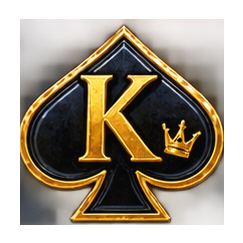
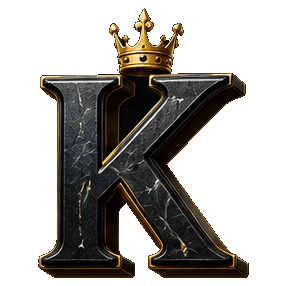
Add files via upload

diff --git a/index.html b/index.html
@@ -49,6 +49,9 @@ a:hover{color:#ffe9a8}
 @keyframes railSweep{0%{transform:translateX(-120%)}100%{transform:translateX(420%)}}
 @keyframes neonBreathe{0%,100%{opacity:.5}50%{opacity:1}}
 @keyframes crownSpin{to{transform:rotate(360deg)}}
+@keyframes sweatFrame{0%,100%{box-shadow:0 0 16px rgba(53,182,255,.5),inset 0 0 20px rgba(53,182,255,.22);border-color:rgba(120,215,255,.7)}50%{box-shadow:0 0 44px rgba(150,228,255,.95),inset 0 0 36px rgba(53,182,255,.5);border-color:#e8f7ff}}
+@keyframes sweatBolt{0%{transform:translateY(-110%);opacity:0}10%{opacity:.95}80%{opacity:.9}100%{transform:translateY(110%);opacity:0}}
+@keyframes sweatFlicker{0%,42%,46%,100%{opacity:.25}44%{opacity:1}70%{opacity:.85}74%{opacity:.3}}
 @keyframes scanDrift{0%{transform:translateY(0)}100%{transform:translateY(6px)}}
 </style>
 </helmet>
@@ -282,11 +285,18 @@ a:hover{color:#ffe9a8}
               <div style="{{ c.cell }}">
                 <div style="{{ c.anim }}">
                   <div style="{{ c.tilt }}">
-                    <sc-for list="{{ c.layers }}" as="l" hint-placeholder-count="1">
+                    <sc-for list="{{ c.layers }}" as="l" hint-placeholder-count="2">
                       <div style="{{ l.s }}">{{ l.t }}</div>
                     </sc-for>
                   </div>
                 </div>
+              </div>
+            </sc-for>
+            <sc-for list="{{ colSweat }}" as="o" hint-placeholder-count="0">
+              <div style="{{ o.frame }}">
+                <div style="{{ o.glow }}"></div>
+                <div style="{{ o.bolt }}"></div>
+                <div style="{{ o.bolt2 }}"></div>
               </div>
             </sc-for>
           </div>
@@ -386,8 +396,8 @@ a:hover{color:#ffe9a8}
             <div style="{{ spinBezel }}"></div>
             <div style="{{ spinRing }}"></div>
             <div style="{{ spinFace }}">
+              <img src="symbols/spinface.png" alt="" style="{{ spinImgStyle }}">
               <div style="{{ spinGloss }}"></div>
-              <div style="{{ spinLabelStyle }}">{{ spinLabel }}</div>
               <div style="{{ spinSubStyle }}">{{ spinSub }}</div>
             </div>
           </div>
@@ -817,11 +827,11 @@ class Component extends DCLogic {
            testo:'sym_testo', tanga:'sym_tanga' };
   TIER = { a:'low', j:'low', q:'low', k:'low', pills:'mid', dumbbell:'mid',
            whey:'mid', peptid:'high', testo:'high', tanga:'high' };
-  COL  = { a:'#3f8fe0', j:'#31c257', q:'#ec2a8c', k:'#f5c542', pills:'#35b6ff',
-           dumbbell:'#ff3b3b', whey:'#ff7a5c', peptid:'#2ea8ff',
-           testo:'#39e05a', tanga:'#ff2ea6' };
+  COL  = { a:'#f5c542', j:'#31c257', q:'#a855f7', k:'#9fb4ce', pills:'#35b6ff',
+           dumbbell:'#c8d4e4', whey:'#c9a2ff', peptid:'#cfe4f5',
+           testo:'#e8eef6', tanga:'#ff2e4d' };
   NAME = { a:'ASS', j:'BUBE', q:'DAME', k:'KÖNIG', pills:'BLUE PILLS',
-           dumbbell:'HANTEL', whey:'WHEY', peptid:'PEPTIDES',
+           dumbbell:'HANTEL', whey:'CASH', peptid:'SPRITZE',
            testo:'TESTO', tanga:'TANGA' };
 
   /* Einmalig beim Eintritt in die Freispiele. */
@@ -1400,9 +1410,10 @@ class Component extends DCLogic {
       if (!this._m) return;
       if (st.type === 'grid'){
         this._seenMults = {};
-        this.setState(s=>({ grid: st.grid.map(c=>Object.assign({}, c, { fresh:true })), tick:s.tick+1 }));
+        const g1 = st.grid.map(c=>Object.assign({}, c, { fresh:true }));
+        this.setState(s=>({ grid:g1, tick:s.tick+1 }));
         this.checkNewMults(st.grid);
-        await this.sleep(this.t(1120));
+        await this.sleep(Math.max(this.t(1120), this.dropPlan(g1).total*1000 + 240));
       } else if (st.type === 'clusters'){
         const hit = {};
         st.clusters.forEach(c=>c.cells.forEach(i=>{ hit[i]=1; }));
@@ -1415,7 +1426,7 @@ class Component extends DCLogic {
       } else if (st.type === 'cascade'){
         this.setState(s=>({ grid:st.grid, tick:s.tick+1 }));
         this.checkNewMults(st.grid);
-        await this.sleep(this.t(900));
+        await this.sleep(Math.max(this.t(900), this.dropPlan(st.grid).total*1000 + 200));
       } else if (st.type === 'collect'){
         const big = st.values.some(v=>v>=100);
         if (big){ this.setState({ flash:true }); this.hype('x'+Math.max.apply(null, st.values)+' ORB WAS'); await this.sleep(140); this.setState({ flash:false }); }
@@ -1519,6 +1530,24 @@ class Component extends DCLogic {
   }
 
   /* ---------- Symbol-Art aus dem Artwork-Sheet ---------- */
+  /* Fallplan pro Spalte: sobald zwei Scatter gelandet sind, fallen die
+     restlichen Spalten deutlich langsamer ("Sweat") und werden umblitzt. */
+  dropPlan(grid){
+    const cols = 7, rows = 7;
+    if (!grid || grid.length < cols*rows){
+      const d = [], du = []; for (let c = 0; c < cols; c++){ d.push(c*0.1); du.push(1.15); }
+      return { delays:d, durs:du, sweat:[false,false,false,false,false,false,false], total:1.9, hot:false };
+    }
+    const delays = [], durs = [], sweat = [];
+    let end = 0;
+    for (let c = 0; c < cols; c++){
+      const t = c*0.1, dur = 1.15;
+      delays.push(t); durs.push(dur); sweat.push(false);
+      if (t + dur > end) end = t + dur;
+    }
+    return { delays, durs, sweat, total: end + 0.2, hot: false };
+  }
+
   LY(s, t){ return { s, t: t || '' }; }
   /* Style-Objekte pro Symbol nur einmal bauen und wiederverwenden. */
   art(sym, mv){
@@ -1534,7 +1563,7 @@ class Component extends DCLogic {
         this.LY(A({ inset:'2%', borderRadius:'50%', border:'1.3cqw solid rgba(120,215,255,.85)', animation:'scatterRing 1.9s ease-out infinite', willChange:'transform,opacity' })),
         this.LY(A({ inset:'6%', borderRadius:'50%', background:'radial-gradient(circle,rgba(180,235,255,.55),rgba(53,182,255,.22) 46%,transparent 70%)', animation:'scatterHalo 1.7s ease-in-out infinite', willChange:'transform,opacity' })),
         this.LY(A({ inset:'4%', backgroundImage:"url('symbols/scatter.png')", backgroundSize:'contain', backgroundPosition:'center', backgroundRepeat:'no-repeat' })),
-        this.LY(A({ left:'9%', bottom:'-1%', width:'82%', height:'19%', borderRadius:'2.4cqw', background:'linear-gradient(180deg,#7fd4ff,#0d63b5)', border:'0.8cqw solid rgba(255,255,255,.75)', boxShadow:'0 0 12cqw rgba(53,182,255,.85)', display:'grid', placeItems:'center', fontFamily:'Anton, sans-serif', fontSize:'11cqw', color:'#04213c', letterSpacing:'.1em' }), 'SCATTER')
+        this.LY(A({ inset:'4%', backgroundImage:"url('symbols/scatter.png')", backgroundSize:'contain', backgroundPosition:'center', backgroundRepeat:'no-repeat', mixBlendMode:'screen', opacity:.55 }))
       ];
     }
     if (sym === 'mult'){
@@ -1542,9 +1571,13 @@ class Component extends DCLogic {
       return [
         this.LY(A({ inset:'-16%', borderRadius:'50%', background:'conic-gradient(from 0deg,'+(big?'rgba(255,255,255,.5)':'rgba(245,197,66,.38)')+' 0deg 6deg,transparent 6deg 30deg,'+(big?'rgba(255,255,255,.5)':'rgba(245,197,66,.38)')+' 30deg 36deg,transparent 36deg 60deg,'+(big?'rgba(255,255,255,.5)':'rgba(245,197,66,.38)')+' 60deg 66deg,transparent 66deg 90deg)', animation:'spinSlow '+(big?'4s':'10s')+' linear infinite', opacity: mid ? .9 : .45, willChange:'transform' })),
         this.LY(A({ inset:'2%', borderRadius:'50%', border:'1.3cqw solid '+(big?'rgba(255,255,255,.95)':'rgba(245,197,66,.8)'), animation:'orbRing '+(big?'1.1s':'1.9s')+' ease-out infinite' })),
-        this.LY(A({ inset:'0', backgroundImage:"url('symbols/multi.png')", backgroundSize:'cover', backgroundPosition:'center', borderRadius:'12%' })),
-        this.LY(A({ inset:'0', borderRadius:'12%', background:'radial-gradient(circle at 50% 52%,rgba(0,0,0,.72) 22%,rgba(0,0,0,.25) 48%,transparent 66%)' })),
-        this.LY(A({ inset:'0', display:'grid', placeItems:'center', fontFamily:'Anton, sans-serif', fontSize:(mv>=100?'27cqw':'34cqw'), lineHeight:1, color:'#ffe9a8', textShadow:'0 0 5cqw rgba(0,0,0,.95), 0 0.8cqw 0 #6b4a00, 0 -0.4cqw 0 rgba(255,255,255,.55)' }), 'x'+mv)
+        this.LY(A({ inset:'-1%', backgroundImage:"url('symbols/multi.png')", backgroundSize:'contain', backgroundPosition:'center', backgroundRepeat:'no-repeat' })),
+        this.LY(A({ left:'50%', top:'52%', transform:'translate(-50%,-50%)', display:'grid', placeItems:'center',
+          minWidth:(mv>=100?'56cqw':'44cqw'), padding:'1cqw 3cqw', borderRadius:'3cqw',
+          background:'linear-gradient(180deg,rgba(24,14,0,.94),rgba(8,5,0,.96))',
+          border:'1cqw solid rgba(255,233,168,.9)', boxShadow:'0 0 8cqw rgba(0,0,0,.9)',
+          fontFamily:'Anton, sans-serif', fontSize:(mv>=100?'22cqw':'27cqw'), lineHeight:1.05,
+          color:'#ffe9a8', textShadow:'0 0.6cqw 0 #6b4a00' }), 'x'+mv)
       ];
     }
     const img = (this.IMG && this.IMG[sym]) || 'sym_a';
@@ -1586,6 +1619,7 @@ class Component extends DCLogic {
     /* Zellen nur neu bauen, wenn sich das Raster wirklich geaendert hat.
        Chat-Ticks und Zaehler duerfen keine 49 Style-Objekte neu erzeugen. */
     const gridKey = s.grid;
+    const plan = this.dropPlan(s.grid);
     const cells = (this._cellCache && this._cellCache.key === gridKey && this._cellCache.tick === s.tick)
       ? this._cellCache.cells
       : s.grid.map((c, i)=>{
@@ -1595,8 +1629,13 @@ class Component extends DCLogic {
         backfaceVisibility:'hidden', willChange:'transform,opacity' };
       if (c.gone) anim = Object.assign(anim, { animation:'popOut .42s ease-in forwards' });
       else if (c.win) anim = Object.assign(anim, { animation:'winPulse .72s ease-in-out infinite' });
-      else if (c.fresh && c.t === 'mult') anim = Object.assign(anim, { animation:'orbLand .8s cubic-bezier(.2,1.35,.4,1) both' });
-      else if (c.fresh) anim = Object.assign(anim, { animation:parity+' .92s cubic-bezier(.34,.72,.3,1) both', animationDelay:(((6-row)*0.062) + ((i%7)*0.02))+'s' });
+      else if (c.fresh && c.t === 'mult') anim = Object.assign(anim, { animationName:'orbLand',
+        animationDuration:'.95s', animationTimingFunction:'cubic-bezier(.2,1.3,.4,1)', animationFillMode:'both',
+        animationDelay:((plan.delays[i%7] || 0)).toFixed(3)+'s' });
+      else if (c.fresh) anim = Object.assign(anim, { animationName:parity,
+        animationDuration:((plan.durs[i%7] || 1.15)).toFixed(2)+'s',
+        animationTimingFunction:'cubic-bezier(.32,.7,.28,1)', animationFillMode:'both',
+        animationDelay:((plan.delays[i%7] || 0) + (6-row)*0.03).toFixed(3)+'s' });
       const tilt = c.collecting
         ? { position:'relative', width:'100%', height:'100%', animation:'orbCollect .85s cubic-bezier(.4,0,.6,1) forwards' }
         : c.collected
@@ -1755,6 +1794,24 @@ class Component extends DCLogic {
     const fsOn = s.fs.active;
 
     return {
+      /* WICHTIG: absolut positioniert, NICHT als Grid-Kind. Ein Grid-Kind mit
+         fester Spalte wird vor den 49 Zellen platziert und schiebt die Zellen
+         dieser Spalte in implizite Reihen — die Spalte blieb dadurch leer. */
+      colSweat: plan.sweat.map((on, col)=>on ? {
+        frame: { position:'absolute', top:'7px', bottom:'7px',
+          left:'calc(7px + ' + col + ' * ((100% - 38px)/7 + 4px))',
+          width:'calc((100% - 38px)/7)', borderRadius:'11px',
+          border:'2px solid rgba(120,215,255,.75)', pointerEvents:'none', zIndex:4, overflow:'hidden',
+          animation:'sweatFrame .62s ease-in-out infinite' },
+        glow: { position:'absolute', inset:0, background:'linear-gradient(180deg,rgba(53,182,255,.16),rgba(53,182,255,0) 42%,rgba(53,182,255,.16))',
+          animation:'sweatFlicker 1.1s linear infinite', pointerEvents:'none' },
+        bolt: { position:'absolute', left:'-6%', width:'112%', height:'46%',
+          background:'linear-gradient(180deg,transparent,rgba(226,244,255,.85),transparent)',
+          filter:'blur(1px)', animation:'sweatBolt .95s linear infinite', pointerEvents:'none' },
+        bolt2: { position:'absolute', left:'-6%', width:'112%', height:'26%',
+          background:'linear-gradient(180deg,transparent,rgba(150,228,255,.7),transparent)',
+          filter:'blur(2px)', animation:'sweatBolt 1.5s linear infinite', animationDelay:'.4s', pointerEvents:'none' }
+      } : null).filter(Boolean),
       cells, payRows, anteOptions, anteNote, tabs, debugRows, historyRows, simRows, simButtons, testRows, ruleBlocks,
 
       maxWinTxt: (M ? M.maxWinMultiplier.toLocaleString('de-DE') : '10.000')+'x',
@@ -2110,19 +2167,26 @@ class Component extends DCLogic {
           ? 'inset 0 2px 8px rgba(0,0,0,.9),0 0 22px rgba(245,197,66,.28)'
           : 'inset 0 2px 8px rgba(0,0,0,.9)' },
 
-      spinSub: s.busy ? '' : (s.armed ? 'BEREIT' : (s.autoLeft > 0 ? 'AUTO' : '')),
+      spinSub: s.busy ? '' : (s.armed === 'ss1' ? 'S1' : s.armed === 'ss2' ? 'S2' : (s.autoLeft > 0 ? 'AUTO' : '')),
+      spinImgStyle: { position:'absolute', left:'50%', top:'50%', transform:'translate(-50%,-50%) scale(' + (s.busy ? 1.06 : 1) + ')',
+        width:'96%', height:'96%', objectFit:'contain', pointerEvents:'none',
+        transition:'transform .2s cubic-bezier(.2,1.4,.4,1)',
+        filter:'drop-shadow(0 0 1px #f5c542) drop-shadow(0 0 1px #f5c542) drop-shadow(0 0 2px #ffe9a8) drop-shadow(0 2px 6px rgba(0,0,0,.7))' },
       spinLabelStyle: { position:'relative', fontFamily:'Anton, sans-serif',
         fontSize: s.busy ? '26px' : '23px', letterSpacing:'.04em', lineHeight:1,
         color:'#2a1c00', textShadow:'0 1px 0 rgba(255,255,255,.62),0 -1px 0 rgba(0,0,0,.25)' },
-      spinSubStyle: { position:'relative', fontSize:'7.5px', fontWeight:700, letterSpacing:'.26em',
-        marginTop:'1px', color:'rgba(42,28,0,.62)' },
+      spinSubStyle: { position:'absolute', left:'50%', bottom:'7px', transform:'translateX(-50%)',
+        padding:'1px 7px', borderRadius:'999px', fontFamily:'Anton, sans-serif', fontSize:'9px',
+        letterSpacing:'.2em', whiteSpace:'nowrap', pointerEvents:'none',
+        background: s.spinSubHas ? 'rgba(8,5,0,.78)' : 'transparent',
+        color:'#ffe9a8', textShadow:'0 0 8px rgba(0,0,0,.9)' },
       spinHalo: { position:'absolute', inset:'-16px', borderRadius:'50%',
         background:'radial-gradient(circle,' + (fsOn ? 'rgba(255,110,199,.4)' : 'rgba(245,197,66,.34)') + ',transparent 66%)',
         animation:'neonBreathe 2.4s ease-in-out infinite', pointerEvents:'none' },
       spinBezel: { position:'absolute', inset:'-4px', borderRadius:'50%',
         background:'conic-gradient(#6d4800,#ffe9a8 12%,#8a6a1c 26%,#fff6cf 40%,#6d4800 54%,#ffe9a8 68%,#8a6a1c 82%,#fff6cf 94%,#6d4800)',
         boxShadow:'0 8px 22px rgba(0,0,0,.85),inset 0 0 0 1px rgba(0,0,0,.5)', pointerEvents:'none' },
-      spinGloss: { position:'absolute', left:'16%', top:'9%', width:'68%', height:'40%',
+      spinGloss: { position:'absolute', left:'16%', top:'9%', width:'68%', height:'40%', zIndex:2,
         borderRadius:'50%', background:'linear-gradient(180deg,rgba(255,255,255,.72),rgba(255,255,255,0))',
         filter:'blur(1px)', pointerEvents:'none' },
       spinLabel: s.busy ? '•••' : (!s.ready ? '…' : s.armed === 'ss1' ? 'S1' : s.armed === 'ss2' ? 'S2' : 'SPIN'),
@@ -2141,7 +2205,7 @@ class Component extends DCLogic {
           ? 'radial-gradient(circle at 50% 24%,#fff 0%,#ffd6f1 16%,#ff7ccd 44%,#c0006f 74%,#4d002c 100%)'
           : 'radial-gradient(circle at 50% 24%,#fffdf2 0%,#fff2c0 16%,#ffd469 44%,#c98d0a 74%,#6b4600 100%)',
         boxShadow:'0 0 40px '+(fsOn?'rgba(255,110,199,.65)':'rgba(245,197,66,.6)')+', inset 0 -12px 22px rgba(60,35,0,.6), inset 0 10px 18px rgba(255,255,255,.72), inset 0 0 0 1px rgba(255,255,255,.5)',
-        border:'2px solid rgba(255,255,255,.5)', overflow:'hidden' },
+        border:'2px solid rgba(255,255,255,.5)', overflow:'visible' },
       onSpin: ()=>this.doSpin(s.armed || 'normal'),
 
       betUp: ()=>{ if (s.busy || !M) return; const L=M.betLevels; const i=L.indexOf(s.bet); this.setState({ bet:L[Math.min(L.length-1, i+1)] }); },

diff --git a/gameMath.js b/gameMath.js
@@ -26,16 +26,16 @@ export const UNKNOWN = 'UNKNOWN_PUBLIC_PROBABILITY';
 
 /* --- Symbole (eigenes Thema, keine fremden Assets) ------------------------ */
 export const SYMBOLS = [
-  { id: 'a',        name: 'ASS',      tier: 'low',  color: '#3f8fe0', img: 'sym_a' },
+  { id: 'a',        name: 'ASS',      tier: 'low',  color: '#f5c542', img: 'sym_a' },
   { id: 'j',        name: 'BUBE',     tier: 'low',  color: '#31c257', img: 'sym_j' },
-  { id: 'q',        name: 'DAME',     tier: 'low',  color: '#ec2a8c', img: 'sym_q' },
-  { id: 'k',        name: 'KÖNIG',    tier: 'low',  color: '#f5c542', img: 'sym_k' },
+  { id: 'q',        name: 'DAME',     tier: 'low',  color: '#a855f7', img: 'sym_q' },
+  { id: 'k',        name: 'KÖNIG',    tier: 'low',  color: '#9fb4ce', img: 'sym_k' },
   { id: 'pills',    name: 'BLUE PILLS', tier: 'mid', color: '#35b6ff', img: 'sym_pills' },
-  { id: 'dumbbell', name: 'HANTEL',   tier: 'mid',  color: '#ff3b3b', img: 'sym_dumbbell' },
-  { id: 'whey',     name: 'WHEY',     tier: 'mid',  color: '#ff7a5c', img: 'sym_whey' },
-  { id: 'peptid',   name: 'PEPTIDES', tier: 'high', color: '#2ea8ff', img: 'sym_peptid' },
-  { id: 'testo',    name: 'TESTO',    tier: 'high', color: '#39e05a', img: 'sym_testo' },
-  { id: 'tanga',    name: 'TANGA',    tier: 'high', color: '#ff2ea6', img: 'sym_tanga' }
+  { id: 'dumbbell', name: 'HANTEL',   tier: 'mid',  color: '#c8d4e4', img: 'sym_dumbbell' },
+  { id: 'whey',     name: 'CASH',     tier: 'mid',  color: '#c9a2ff', img: 'sym_whey' },
+  { id: 'peptid',   name: 'SPRITZE',  tier: 'high', color: '#cfe4f5', img: 'sym_peptid' },
+  { id: 'testo',    name: 'TESTO',    tier: 'high', color: '#e8eef6', img: 'sym_testo' },
+  { id: 'tanga',    name: 'TANGA',    tier: 'high', color: '#ff2e4d', img: 'sym_tanga' }
 ];
 export const SYMBOL_IDS = SYMBOLS.map(s => s.id);
 /* Bildsymbole = alles ausser den Kartenwerten. Wird fuer den Bild-Boost der
